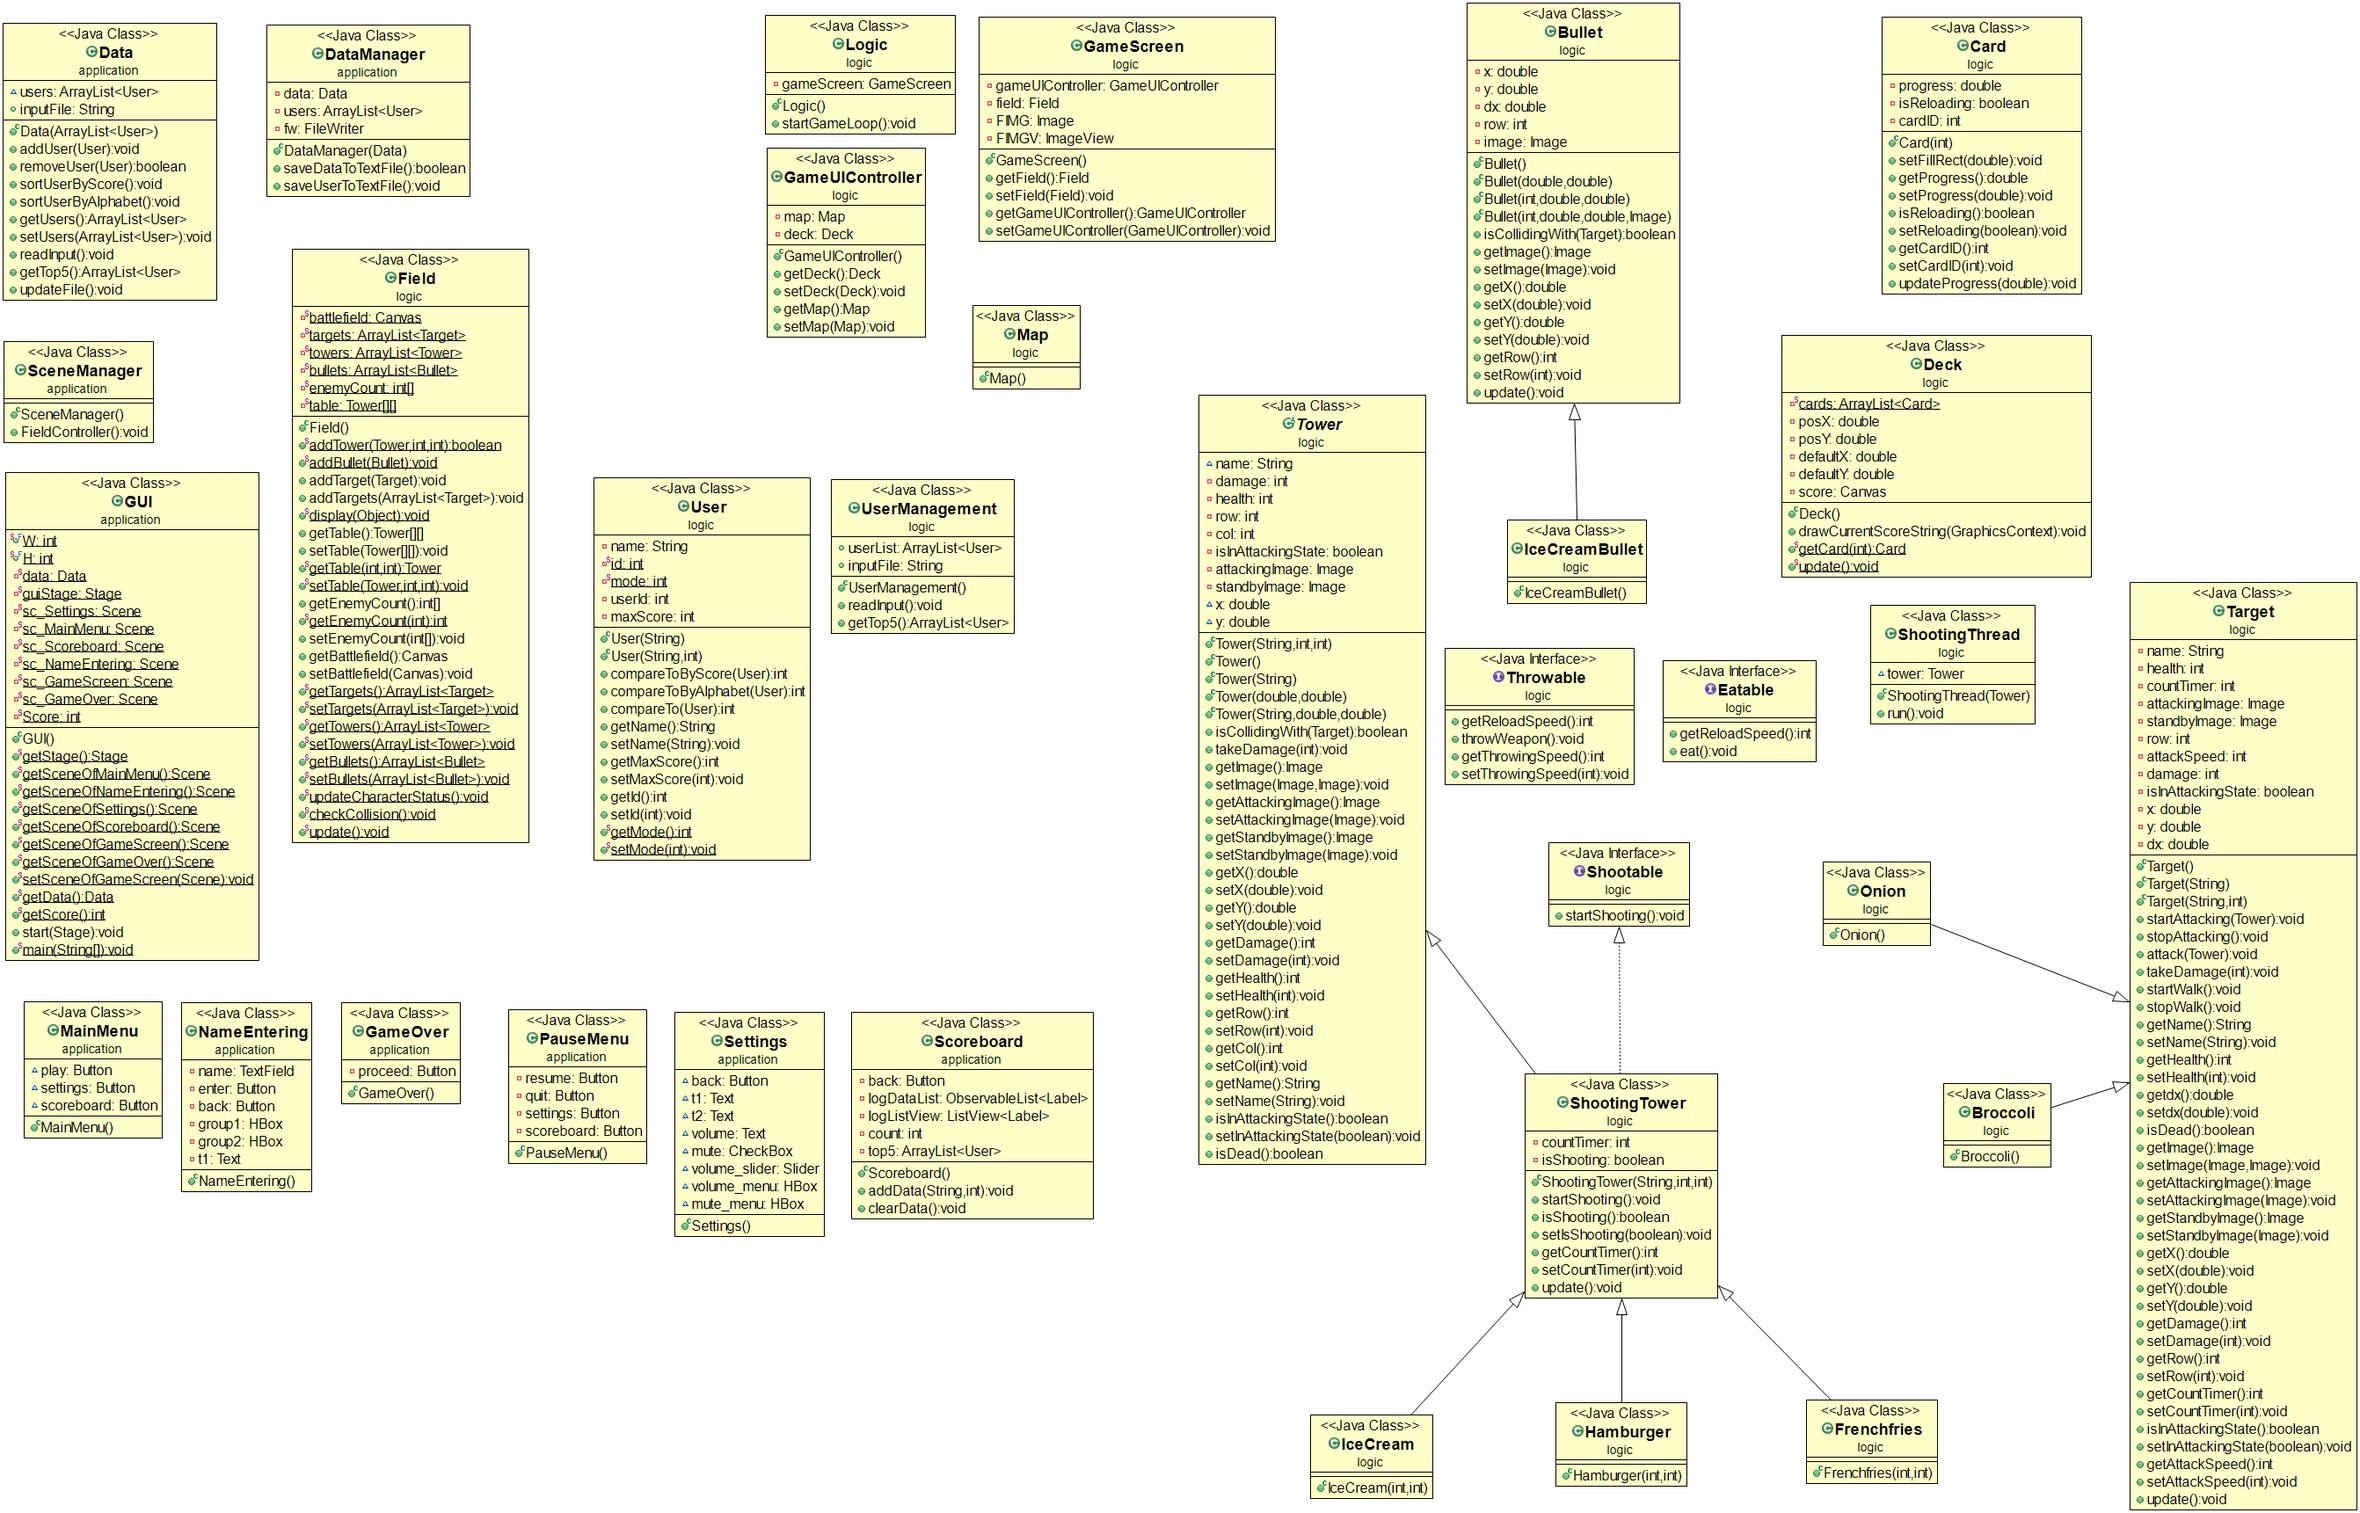
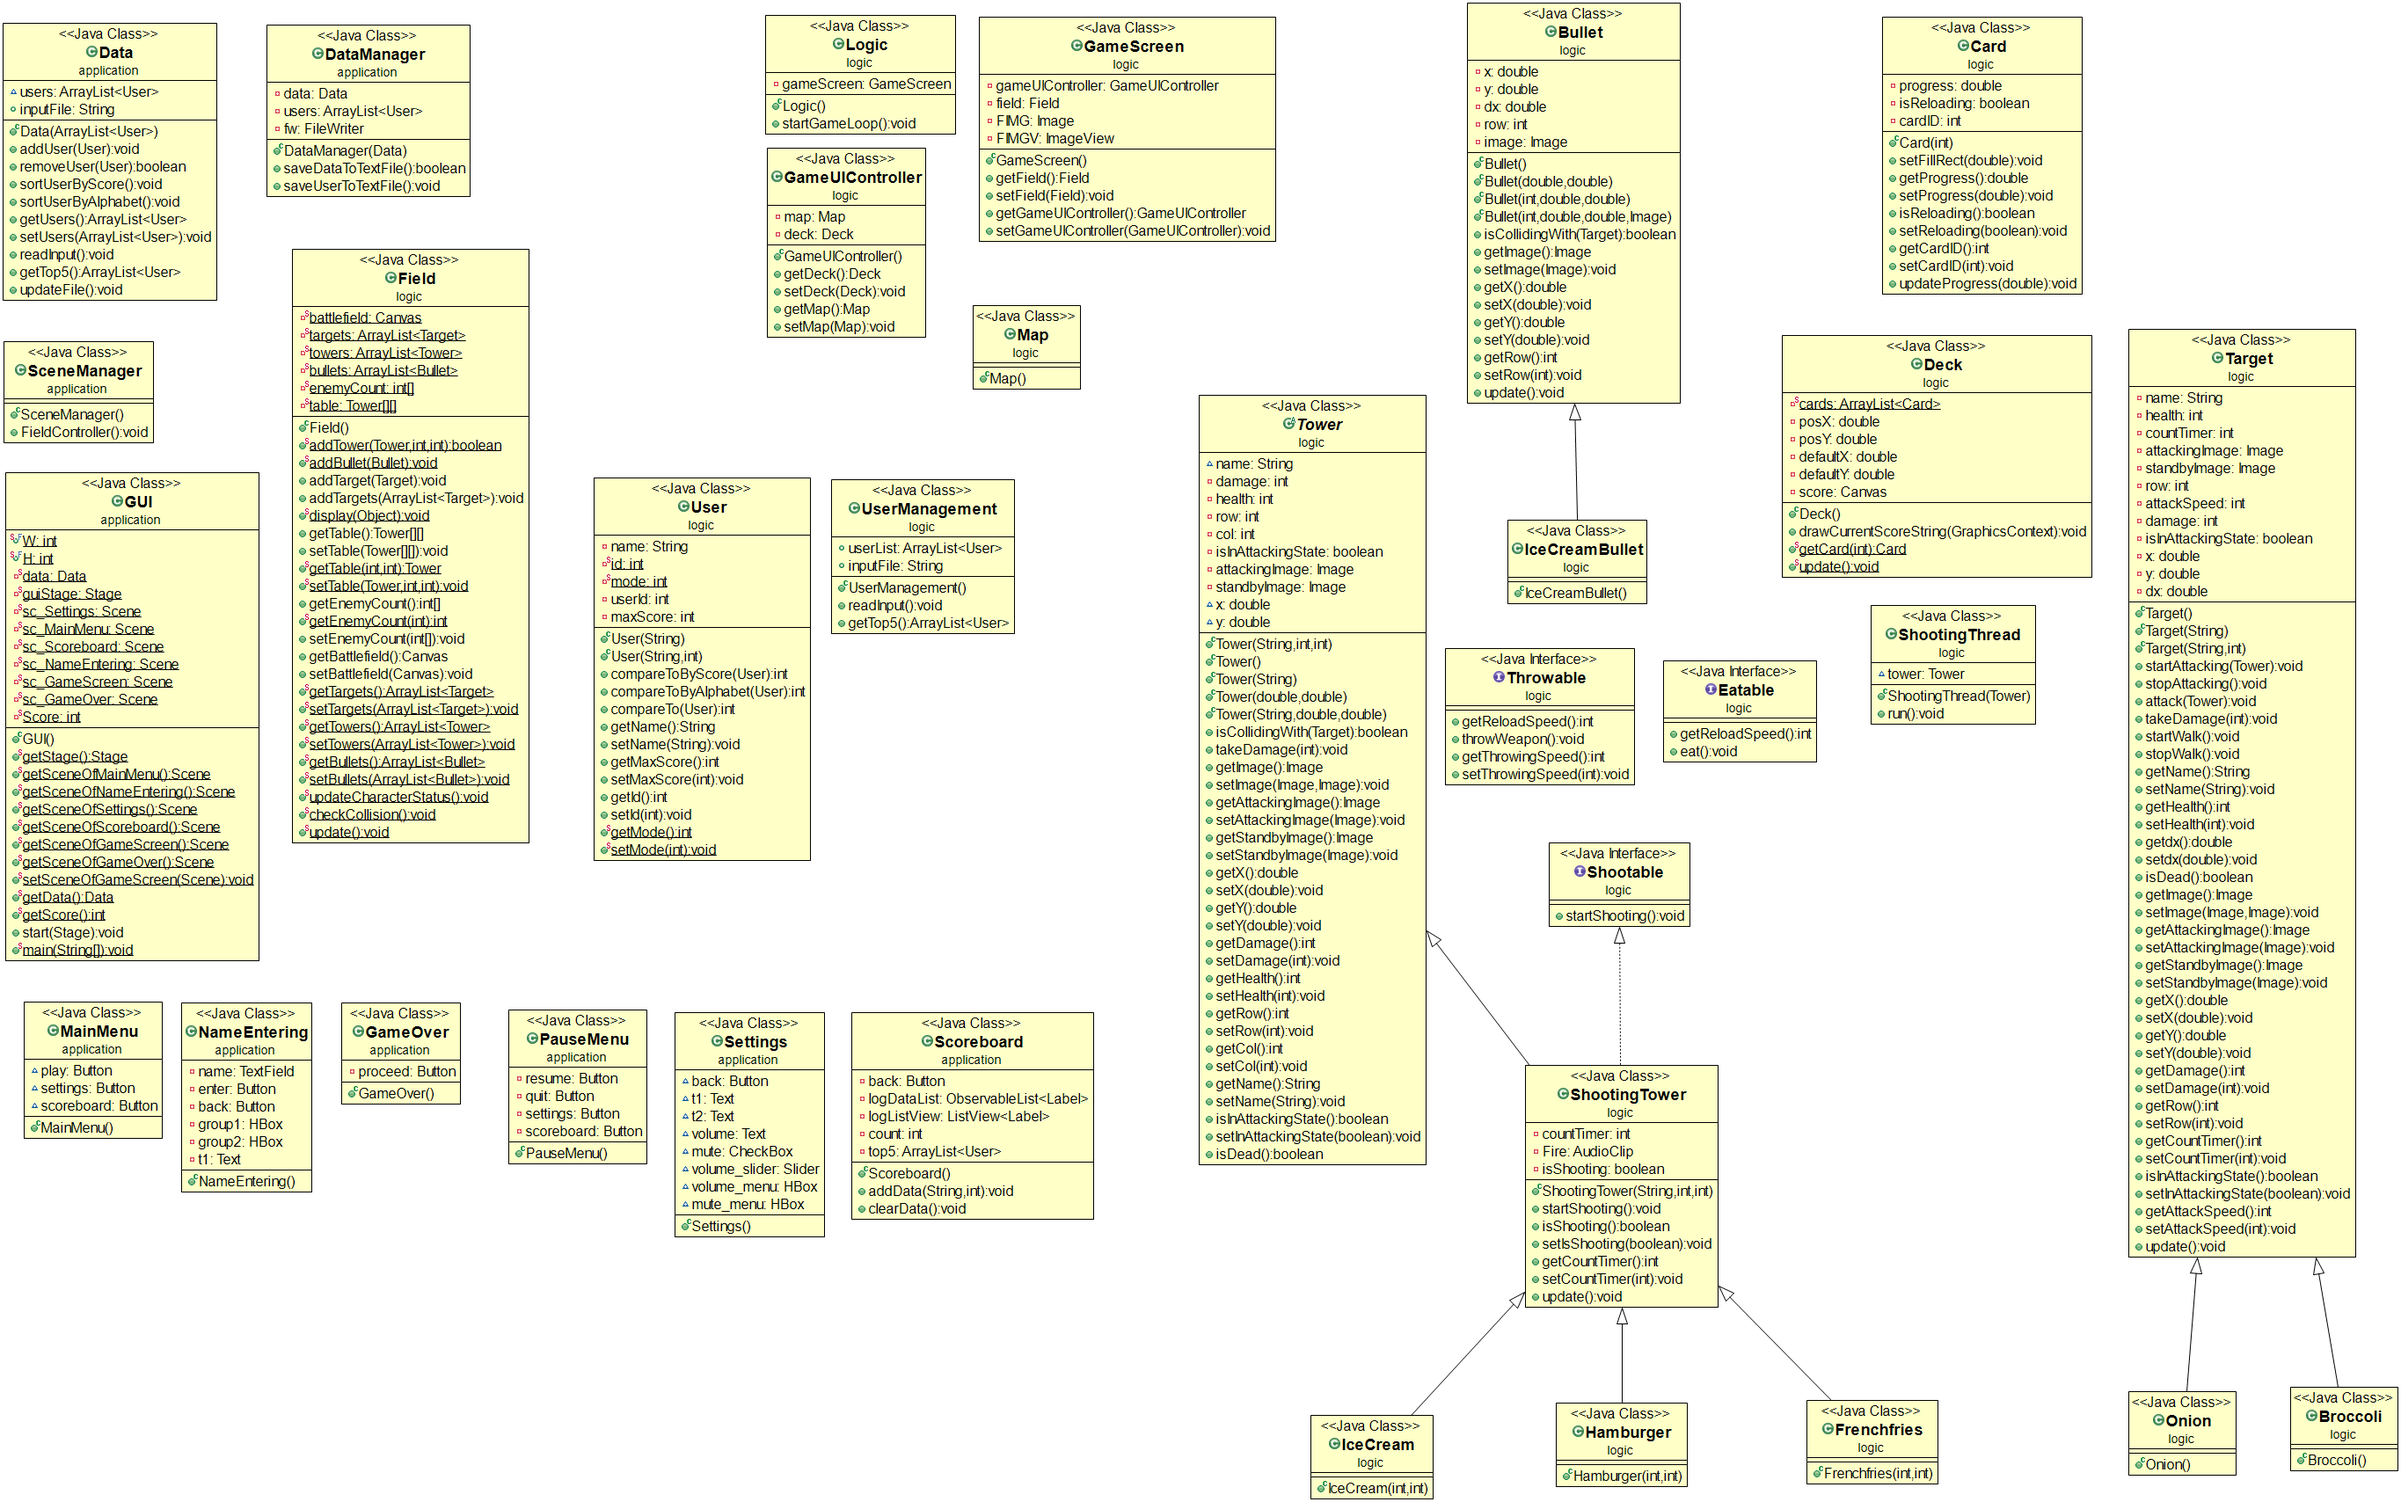
added meow as sound

diff --git a/src/logic/ShootingTower.java b/src/logic/ShootingTower.java
@@ -26,6 +26,7 @@ public class ShootingTower extends Tower implements Shootable{
 		}
 		if(countTimer % 100 == 0) {
 			Bullet bullet = new Bullet();
+			Fire.play();
 			bullet.setX(getX() + 30);
 			bullet.setY(getY() + 30);
 			bullet.setRow(getRow());
